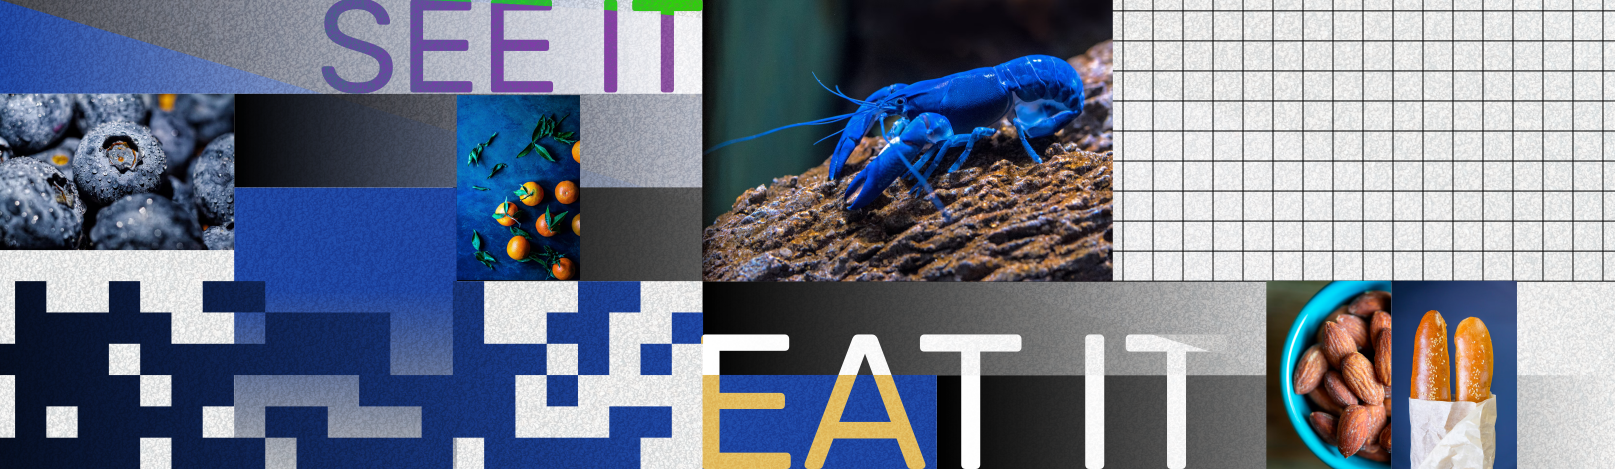
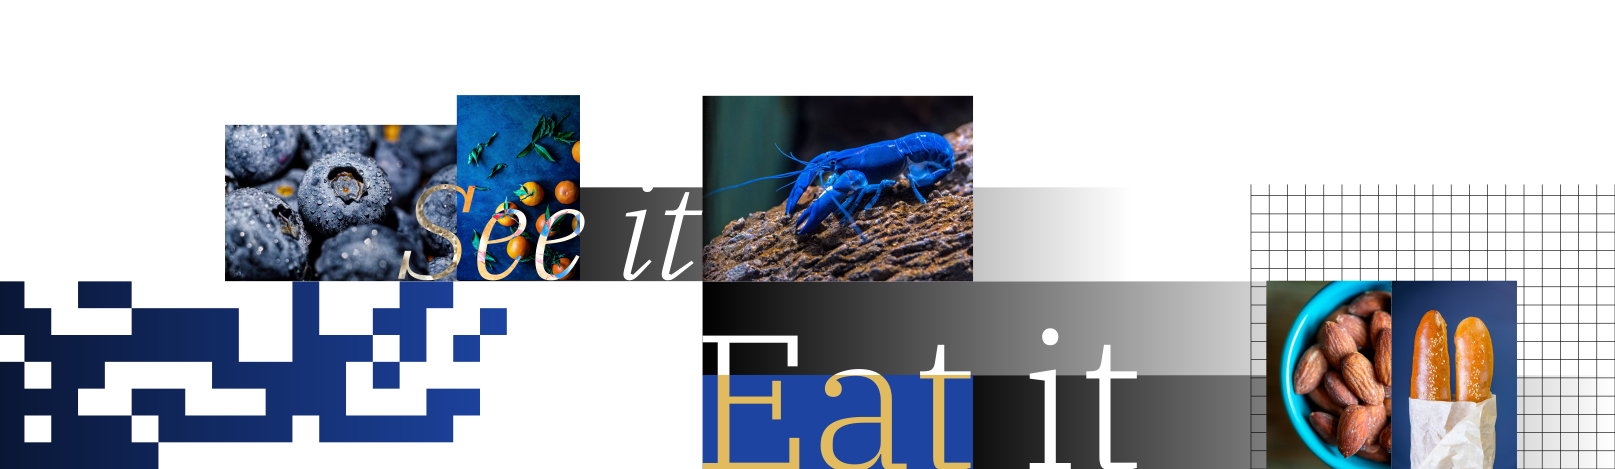
chore: improve desain beranda

diff --git a/index.html b/index.html
@@ -4,7 +4,7 @@
 <head>
   <meta charset="UTF-8" />
   <meta name="viewport" content="width=device-width, initial-scale=1.0" />
-  <title>HOME - Eatscape </title>
+  <title>Beranda - Eatscape</title>
   <!-- pakai bootstrap, diganti aja gapapa pake tailwind dkk biar menarik -->
   <script src="https://cdn.jsdelivr.net/npm/@tailwindcss/browser@4"></script>
   <link rel="preconnect" href="https://fonts.googleapis.com">
@@ -16,8 +16,8 @@
 
 <body>
   <!-- Navbar -->
-  <nav class="bg-white border-b">
-    <div class="mx-auto max-w-7xl px-4 sm:px-6 lg:px-8">
+  <nav>
+    <div id="navi" class="py-2 mx-auto px-16 fixed top-0 right-0 left-0">
       <div class="relative flex h-16 items-center justify-between">
         <div class="absolute inset-y-0 left-0 flex items-center sm:hidden">
           <!-- Mobile menu button-->
@@ -58,7 +58,7 @@
 
 
   <main class="">
-    <img src="images/banner.png" class="h-auto w-full" alt="">
+    <img src="images/banner.png" class="object-cover w-full" alt="">
     <!-- Hero Section -->
     <header class="bg-light py-5 grid grid-cols-1 gap-2 my-10">
 
@@ -75,11 +75,8 @@
             </div>
           </div>
             <div class="flex gap-2">
-              <span class="border p-1">nasi putih</span>
-              <span class="border p-1">pisang</span>
-              <span class="border p-1">kentang goreng</span>
-              <span class="border p-1">bayam</span>
-              <span class="border p-1">...</span>
+              <span class="border py-1 px-2">nasi putih</span>
+              <span class="border py-1 px-2">bayam</span>
             </div>
             <div id="searchResults" class="absolute bg-white px z-10 mt-3 grid gap-3 w-fit"></div>
         </section>
@@ -88,11 +85,48 @@
     </header>
 
     <div class="border-t">
-      <div class="mx-auto max-w-7xl grid grid-cols-2 my-10">
+      <div class="mx-auto max-w-7xl grid grid-cols-2 my-10 content-center">
         <img class="w-100" src="images/hero.gif" alt="">
-        <div>
+        <div class="">
           <h1 class="ibm-plex-serif-regular text-4xl mb-5">Ketahui apa yang ingin dimakan</h1>
           <p>Lorem ipsum dolor sit, consectetur adipiscing elit, sed do eiusmod tempor incididunt ut labore et dolore magnam aliquam quaerat voluptatem. Ut enim aeque doleamus animo, cum corpore dolemus, fieri tamen permagna accessio potest, si aliquod aeternum et.</p>
+        </div>
+      </div>
+    </div>
+
+    <div class="border-t">
+      <div class="mx-auto max-w-7xl grid grid-cols-2 my-10 gap-10">
+        <div>
+          <h1 class="ibm-plex-serif-regular gap-2 text-xl itmes-end mb-10">Bandingkan <span class="ibm-plex-serif-light text-5xl">Makanan</span class="h-20" alt=""> <br> dengan <span class="ibm-plex-serif-light text-5xl">makanan lain</span></h1>
+          <div class="grid grid-cols-2">
+            <img src="https://images.unsplash.com/photo-1644083152667-2c78739e882a?q=80&w=1740&auto=format&fit=crop&ixlib=rb-4.1.0&ixid=M3wxMjA3fDB8MHxwaG90by1wYWdlfHx8fGVufDB8fHx8fA%3D%3D" class="object-cover h-full w-full" alt="">
+            <img src="https://img-global.cpcdn.com/recipes/0820c8cf5a5e18aa/1200x630cq80/photo.jpg" class="object-cover h-full w-full" alt="">
+          </div>
+        </div>
+        <div>
+          <p class="mb-10">Lorem ipsum dolor sit, consectetur adipiscing elit, sed do eiusmod tempor incididunt ut labore et dolore magnam aliquam quaerat voluptatem. Ut enim aeque doleamus animo, cum corpore dolemus, fieri tamen permagna accessio potest, si aliquod aeternum et.</p>
+          <button class="bg-[#1D44A1] shadow-[4px_4px_0px_rgba(29,68,161,1)] text-white py-2 px-4">Bandingkan sekarang ></button>
+        </div>
+      </div>
+    </div>
+    
+    <div class="border-t border-b h-96">
+      <div class="mx-auto max-w-7xl grid grid-cols-2 mt-10">
+        <div>
+          <h1 class="ibm-plex-serif-regular text-4xl mb-5">Seperti <i>wiki</i> untuk makanan.</h1>
+          <p>Lorem ipsum dolor sit, consectetur adipiscing elit, sed do eiusmod tempor incididunt ut labore et dolore magnam aliquam quaerat voluptatem. Ut enim aeque doleamus animo, cum corpore dolemus, fieri tamen permagna accessio potest, si aliquod aeternum et.</p>
+        </div>
+                <img src="https://upload.wikimedia.org/wikipedia/en/thumb/8/80/Wikipedia-logo-v2.svg/1920px-Wikipedia-logo-v2.svg.png" alt="">
+      </div>
+    </div>
+
+    <div>
+      <div class="mx-auto max-w-7xl grid grid-cols-2 my-10 gap-10">
+        <div>
+          <img class="w-144 h-42 object-cover mb-10" src="https://upload.wikimedia.org/wikipedia/commons/thumb/6/69/Wikimedia_Foundation_Servers-8055_35.jpg/2560px-Wikimedia_Foundation_Servers-8055_35.jpg" alt="">
+          <h1 class="ibm-plex-serif-regular text-4xl mb-5">Gunakan layanan API kami</h1>
+          <p class="mb-10">Lorem ipsum dolor sit, consectetur adipiscing elit, sed do eiusmod tempor incididunt ut labore et dolore magnam aliquam quaerat voluptatem. Ut enim aeque doleamus animo, cum corpore dolemus, fieri tamen permagna accessio potest, si aliquod aeternum et.</p>
+          <button class="bg-[#1D44A1] shadow-[4px_4px_0px_rgba(29,68,161,1)] text-white py-2 px-4">Gunakan sekarang ></button>
         </div>
       </div>
     </div>
@@ -103,6 +137,22 @@
   <script src="https://code.jquery.com/jquery-3.7.1.min.js"></script>
   <script src="js/data-makanan.js"></script>
   <script src="js/script.js"></script>
+
+  <script>
+  const nav = document.getElementById("navi")
+
+  window.addEventListener("scroll", () => {
+    if (window.scrollY > 100) {
+      nav.classList.remove("bg-transparent");
+      nav.classList.add("bg-white"); // solid-ish bg
+      nav.classList.add("border-b");
+    } else {
+      nav.classList.remove("bg-white");
+      nav.classList.remove("border-b");
+      nav.classList.add("bg-transparent");
+    }
+  });
+  </script>
 </body>
 
 </html>
